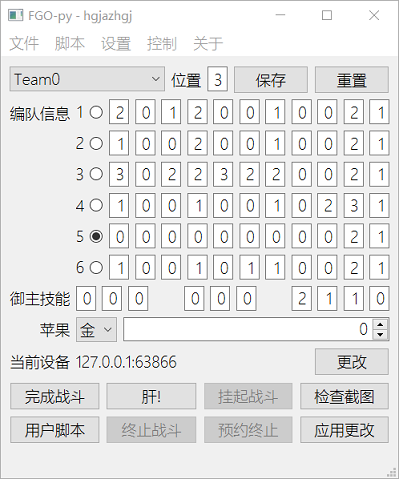
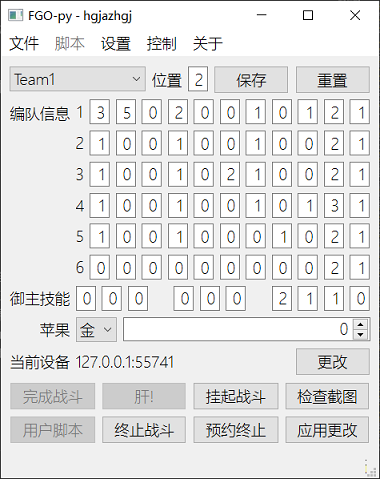
v7.4.1

diff --git a/FGO-py/fgoMainWindow.py b/FGO-py/fgoMainWindow.py
@@ -63,13 +63,6 @@ class Ui_fgoMainWindow(object):
         self.LAYOUT_INFO_TEAM.setWidget(0, QtWidgets.QFormLayout.ItemRole.LabelRole, self.LBL_TEAM_0)
         self.LAYOUT_INFO_TEAM_0 = QtWidgets.QHBoxLayout()
         self.LAYOUT_INFO_TEAM_0.setObjectName("LAYOUT_INFO_TEAM_0")
-        self.RBT_FRIEND_0 = QtWidgets.QRadioButton(self.widget)
-        self.RBT_FRIEND_0.setText("")
-        self.RBT_FRIEND_0.setObjectName("RBT_FRIEND_0")
-        self.BTG_FRIEND = QtWidgets.QButtonGroup(fgoMainWindow)
-        self.BTG_FRIEND.setObjectName("BTG_FRIEND")
-        self.BTG_FRIEND.addButton(self.RBT_FRIEND_0)
-        self.LAYOUT_INFO_TEAM_0.addWidget(self.RBT_FRIEND_0)
         self.TXT_SKILL_0_0_0 = QtWidgets.QLineEdit(self.widget)
         self.TXT_SKILL_0_0_0.setMinimumSize(QtCore.QSize(20, 25))
         self.TXT_SKILL_0_0_0.setMaximumSize(QtCore.QSize(20, 25))
@@ -162,11 +155,6 @@ class Ui_fgoMainWindow(object):
         self.LAYOUT_INFO_TEAM.setWidget(1, QtWidgets.QFormLayout.ItemRole.LabelRole, self.LBL_TEAM_1)
         self.LAYOUT_INFO_TEAM_1 = QtWidgets.QHBoxLayout()
         self.LAYOUT_INFO_TEAM_1.setObjectName("LAYOUT_INFO_TEAM_1")
-        self.RBT_FRIEND_1 = QtWidgets.QRadioButton(self.widget)
-        self.RBT_FRIEND_1.setText("")
-        self.RBT_FRIEND_1.setObjectName("RBT_FRIEND_1")
-        self.BTG_FRIEND.addButton(self.RBT_FRIEND_1)
-        self.LAYOUT_INFO_TEAM_1.addWidget(self.RBT_FRIEND_1)
         self.TXT_SKILL_1_0_0 = QtWidgets.QLineEdit(self.widget)
         self.TXT_SKILL_1_0_0.setMinimumSize(QtCore.QSize(20, 25))
         self.TXT_SKILL_1_0_0.setMaximumSize(QtCore.QSize(20, 25))
@@ -259,11 +247,6 @@ class Ui_fgoMainWindow(object):
         self.LAYOUT_INFO_TEAM.setWidget(2, QtWidgets.QFormLayout.ItemRole.LabelRole, self.LBL_TEAM_2)
         self.LAYOUT_INFO_TEAM_2 = QtWidgets.QHBoxLayout()
         self.LAYOUT_INFO_TEAM_2.setObjectName("LAYOUT_INFO_TEAM_2")
-        self.RBT_FRIEND_2 = QtWidgets.QRadioButton(self.widget)
-        self.RBT_FRIEND_2.setText("")
-        self.RBT_FRIEND_2.setObjectName("RBT_FRIEND_2")
-        self.BTG_FRIEND.addButton(self.RBT_FRIEND_2)
-        self.LAYOUT_INFO_TEAM_2.addWidget(self.RBT_FRIEND_2)
         self.TXT_SKILL_2_0_0 = QtWidgets.QLineEdit(self.widget)
         self.TXT_SKILL_2_0_0.setMinimumSize(QtCore.QSize(20, 25))
         self.TXT_SKILL_2_0_0.setMaximumSize(QtCore.QSize(20, 25))
@@ -356,11 +339,6 @@ class Ui_fgoMainWindow(object):
         self.LAYOUT_INFO_TEAM.setWidget(3, QtWidgets.QFormLayout.ItemRole.LabelRole, self.LBL_TEAM_3)
         self.LAYOUT_INFO_TEAM_3 = QtWidgets.QHBoxLayout()
         self.LAYOUT_INFO_TEAM_3.setObjectName("LAYOUT_INFO_TEAM_3")
-        self.RBT_FRIEND_3 = QtWidgets.QRadioButton(self.widget)
-        self.RBT_FRIEND_3.setText("")
-        self.RBT_FRIEND_3.setObjectName("RBT_FRIEND_3")
-        self.BTG_FRIEND.addButton(self.RBT_FRIEND_3)
-        self.LAYOUT_INFO_TEAM_3.addWidget(self.RBT_FRIEND_3)
         self.TXT_SKILL_3_0_0 = QtWidgets.QLineEdit(self.widget)
         self.TXT_SKILL_3_0_0.setMinimumSize(QtCore.QSize(20, 25))
         self.TXT_SKILL_3_0_0.setMaximumSize(QtCore.QSize(20, 25))
@@ -453,13 +431,6 @@ class Ui_fgoMainWindow(object):
         self.LAYOUT_INFO_TEAM.setWidget(4, QtWidgets.QFormLayout.ItemRole.LabelRole, self.LBL_TEAM_4)
         self.LAYOUT_INFO_TEAM_4 = QtWidgets.QHBoxLayout()
         self.LAYOUT_INFO_TEAM_4.setObjectName("LAYOUT_INFO_TEAM_4")
-        self.RBT_FRIEND_4 = QtWidgets.QRadioButton(self.widget)
-        self.RBT_FRIEND_4.setCursor(QtGui.QCursor(QtCore.Qt.CursorShape.PointingHandCursor))
-        self.RBT_FRIEND_4.setText("")
-        self.RBT_FRIEND_4.setChecked(True)
-        self.RBT_FRIEND_4.setObjectName("RBT_FRIEND_4")
-        self.BTG_FRIEND.addButton(self.RBT_FRIEND_4)
-        self.LAYOUT_INFO_TEAM_4.addWidget(self.RBT_FRIEND_4)
         self.TXT_SKILL_4_0_0 = QtWidgets.QLineEdit(self.widget)
         self.TXT_SKILL_4_0_0.setMinimumSize(QtCore.QSize(20, 25))
         self.TXT_SKILL_4_0_0.setMaximumSize(QtCore.QSize(20, 25))
@@ -552,11 +523,6 @@ class Ui_fgoMainWindow(object):
         self.LAYOUT_INFO_TEAM.setWidget(5, QtWidgets.QFormLayout.ItemRole.LabelRole, self.LBL_TEAM_5)
         self.LAYOUT_INFO_TEAM_5 = QtWidgets.QHBoxLayout()
         self.LAYOUT_INFO_TEAM_5.setObjectName("LAYOUT_INFO_TEAM_5")
-        self.RBT_FRIEND_5 = QtWidgets.QRadioButton(self.widget)
-        self.RBT_FRIEND_5.setText("")
-        self.RBT_FRIEND_5.setObjectName("RBT_FRIEND_5")
-        self.BTG_FRIEND.addButton(self.RBT_FRIEND_5)
-        self.LAYOUT_INFO_TEAM_5.addWidget(self.RBT_FRIEND_5)
         self.TXT_SKILL_5_0_0 = QtWidgets.QLineEdit(self.widget)
         self.TXT_SKILL_5_0_0.setMinimumSize(QtCore.QSize(20, 25))
         self.TXT_SKILL_5_0_0.setMaximumSize(QtCore.QSize(20, 25))
@@ -932,13 +898,7 @@ class Ui_fgoMainWindow(object):
         fgoMainWindow.setTabOrder(self.CBX_TEAM, self.TXT_TEAM)
         fgoMainWindow.setTabOrder(self.TXT_TEAM, self.BTN_TEAMSAVE)
         fgoMainWindow.setTabOrder(self.BTN_TEAMSAVE, self.BTN_TEAMRESET)
-        fgoMainWindow.setTabOrder(self.BTN_TEAMRESET, self.RBT_FRIEND_0)
-        fgoMainWindow.setTabOrder(self.RBT_FRIEND_0, self.RBT_FRIEND_1)
-        fgoMainWindow.setTabOrder(self.RBT_FRIEND_1, self.RBT_FRIEND_2)
-        fgoMainWindow.setTabOrder(self.RBT_FRIEND_2, self.RBT_FRIEND_3)
-        fgoMainWindow.setTabOrder(self.RBT_FRIEND_3, self.RBT_FRIEND_4)
-        fgoMainWindow.setTabOrder(self.RBT_FRIEND_4, self.RBT_FRIEND_5)
-        fgoMainWindow.setTabOrder(self.RBT_FRIEND_5, self.TXT_SKILL_0_0_0)
+        fgoMainWindow.setTabOrder(self.BTN_TEAMRESET, self.TXT_SKILL_0_0_0)
         fgoMainWindow.setTabOrder(self.TXT_SKILL_0_0_0, self.TXT_SKILL_0_0_1)
         fgoMainWindow.setTabOrder(self.TXT_SKILL_0_0_1, self.TXT_SKILL_0_0_2)
         fgoMainWindow.setTabOrder(self.TXT_SKILL_0_0_2, self.TXT_SKILL_0_1_0)
@@ -1016,10 +976,10 @@ class Ui_fgoMainWindow(object):
         fgoMainWindow.setTabOrder(self.TXT_MASTER_2_2, self.TXT_MASTER_2_3)
         fgoMainWindow.setTabOrder(self.TXT_MASTER_2_3, self.CBX_APPLE)
         fgoMainWindow.setTabOrder(self.CBX_APPLE, self.TXT_APPLE)
-        fgoMainWindow.setTabOrder(self.TXT_APPLE, self.BTN_ONEBATTLE)
+        fgoMainWindow.setTabOrder(self.TXT_APPLE, self.BTN_GETDEVICE)
+        fgoMainWindow.setTabOrder(self.BTN_GETDEVICE, self.BTN_ONEBATTLE)
         fgoMainWindow.setTabOrder(self.BTN_ONEBATTLE, self.BTN_USER)
-        fgoMainWindow.setTabOrder(self.BTN_USER, self.BTN_GETDEVICE)
-        fgoMainWindow.setTabOrder(self.BTN_GETDEVICE, self.BTN_MAIN)
+        fgoMainWindow.setTabOrder(self.BTN_USER, self.BTN_MAIN)
         fgoMainWindow.setTabOrder(self.BTN_MAIN, self.BTN_STOP)
         fgoMainWindow.setTabOrder(self.BTN_STOP, self.BTN_PAUSE)
         fgoMainWindow.setTabOrder(self.BTN_PAUSE, self.BTN_STOPLATER)
@@ -1038,7 +998,6 @@ class Ui_fgoMainWindow(object):
         self.BTN_TEAMRESET.setText(_translate("fgoMainWindow", "重置"))
         self.LBL_SKILLINFO.setText(_translate("fgoMainWindow", "编队信息"))
         self.LBL_TEAM_0.setText(_translate("fgoMainWindow", "1"))
-        self.RBT_FRIEND_0.setStatusTip(_translate("fgoMainWindow", "助战的位置,助战的技能设置或被覆盖"))
         self.TXT_SKILL_0_0_0.setStatusTip(_translate("fgoMainWindow", "技能的最小使用面数,0为不使用技能"))
         self.TXT_SKILL_0_0_0.setInputMask(_translate("fgoMainWindow", "9"))
         self.TXT_SKILL_0_0_1.setStatusTip(_translate("fgoMainWindow", "技能在最小使用面数的最小使用回合"))
@@ -1062,7 +1021,6 @@ class Ui_fgoMainWindow(object):
         self.TXT_HOUGU_0_1.setStatusTip(_translate("fgoMainWindow", "宝具使用的优先级,越大越优先"))
         self.TXT_HOUGU_0_1.setInputMask(_translate("fgoMainWindow", "9"))
         self.LBL_TEAM_1.setText(_translate("fgoMainWindow", "2"))
-        self.RBT_FRIEND_1.setStatusTip(_translate("fgoMainWindow", "助战的位置,助战的技能设置或被覆盖"))
         self.TXT_SKILL_1_0_0.setStatusTip(_translate("fgoMainWindow", "技能的最小使用面数,0为不使用技能"))
         self.TXT_SKILL_1_0_0.setInputMask(_translate("fgoMainWindow", "9"))
         self.TXT_SKILL_1_0_1.setStatusTip(_translate("fgoMainWindow", "技能在最小使用面数的最小使用回合"))
@@ -1086,7 +1044,6 @@ class Ui_fgoMainWindow(object):
         self.TXT_HOUGU_1_1.setStatusTip(_translate("fgoMainWindow", "宝具使用的优先级,越大越优先"))
         self.TXT_HOUGU_1_1.setInputMask(_translate("fgoMainWindow", "9"))
         self.LBL_TEAM_2.setText(_translate("fgoMainWindow", "3"))
-        self.RBT_FRIEND_2.setStatusTip(_translate("fgoMainWindow", "助战的位置,助战的技能设置或被覆盖"))
         self.TXT_SKILL_2_0_0.setStatusTip(_translate("fgoMainWindow", "技能的最小使用面数,0为不使用技能"))
         self.TXT_SKILL_2_0_0.setInputMask(_translate("fgoMainWindow", "9"))
         self.TXT_SKILL_2_0_1.setStatusTip(_translate("fgoMainWindow", "技能在最小使用面数的最小使用回合"))
@@ -1110,7 +1067,6 @@ class Ui_fgoMainWindow(object):
         self.TXT_HOUGU_2_1.setStatusTip(_translate("fgoMainWindow", "宝具使用的优先级,越大越优先"))
         self.TXT_HOUGU_2_1.setInputMask(_translate("fgoMainWindow", "9"))
         self.LBL_TEAM_3.setText(_translate("fgoMainWindow", "4"))
-        self.RBT_FRIEND_3.setStatusTip(_translate("fgoMainWindow", "助战的位置,助战的技能设置或被覆盖"))
         self.TXT_SKILL_3_0_0.setStatusTip(_translate("fgoMainWindow", "技能的最小使用面数,0为不使用技能"))
         self.TXT_SKILL_3_0_0.setInputMask(_translate("fgoMainWindow", "9"))
         self.TXT_SKILL_3_0_1.setStatusTip(_translate("fgoMainWindow", "技能在最小使用面数的最小使用回合"))
@@ -1134,7 +1090,6 @@ class Ui_fgoMainWindow(object):
         self.TXT_HOUGU_3_1.setStatusTip(_translate("fgoMainWindow", "宝具使用的优先级,越大越优先"))
         self.TXT_HOUGU_3_1.setInputMask(_translate("fgoMainWindow", "9"))
         self.LBL_TEAM_4.setText(_translate("fgoMainWindow", "5"))
-        self.RBT_FRIEND_4.setStatusTip(_translate("fgoMainWindow", "助战的位置,助战的技能设置或被覆盖"))
         self.TXT_SKILL_4_0_0.setStatusTip(_translate("fgoMainWindow", "技能的最小使用面数,0为不使用技能"))
         self.TXT_SKILL_4_0_0.setInputMask(_translate("fgoMainWindow", "9"))
         self.TXT_SKILL_4_0_1.setStatusTip(_translate("fgoMainWindow", "技能在最小使用面数的最小使用回合"))
@@ -1158,7 +1113,6 @@ class Ui_fgoMainWindow(object):
         self.TXT_HOUGU_4_1.setStatusTip(_translate("fgoMainWindow", "宝具使用的优先级,越大越优先"))
         self.TXT_HOUGU_4_1.setInputMask(_translate("fgoMainWindow", "9"))
         self.LBL_TEAM_5.setText(_translate("fgoMainWindow", "6"))
-        self.RBT_FRIEND_5.setStatusTip(_translate("fgoMainWindow", "助战的位置,助战的技能设置或被覆盖"))
         self.TXT_SKILL_5_0_0.setStatusTip(_translate("fgoMainWindow", "技能的最小使用面数,0为不使用技能"))
         self.TXT_SKILL_5_0_0.setInputMask(_translate("fgoMainWindow", "9"))
         self.TXT_SKILL_5_0_1.setStatusTip(_translate("fgoMainWindow", "技能在最小使用面数的最小使用回合"))

diff --git a/FGO-py/fgoCheck.py b/FGO-py/fgoCheck.py
@@ -1,5 +1,4 @@
 import os,time,cv2,numpy
-from types import new_class
 from functools import reduce,wraps
 from fgoControl import control
 from fgoFuse import fuse
@@ -33,26 +32,38 @@ class Check(metaclass=logMeta(logger)):
         Check.cache=self
         fuse.increase()
         control.sleep(backwardLagency)
-    def _compare(self,img,rect=(0,0,1920,1080),threshold=.05):return threshold>cv2.minMaxLoc(cv2.matchTemplate(self.im[rect[1]:rect[3],rect[0]:rect[2]],img,cv2.TM_SQDIFF_NORMED))[0]and fuse.reset(self)
-    def _select(self,img,rect=(0,0,1920,1080),threshold=.2):return(lambda x:numpy.argmin(x)if threshold>min(x)else None)([cv2.minMaxLoc(cv2.matchTemplate(self.im[rect[1]:rect[3],rect[0]:rect[2]],i,cv2.TM_SQDIFF_NORMED))[0]for i in img])
+    def _clip(self,rect):return self.im[rect[1]:rect[3],rect[0]:rect[2]]
+    def _loc(self,img,rect=(0,0,1920,1080)):return cv2.minMaxLoc(cv2.matchTemplate(self._clip(rect),img,cv2.TM_SQDIFF_NORMED))
+    def _compare(self,img,rect=(0,0,1920,1080),threshold=.05):return threshold>self._loc(img,rect)[0]and fuse.reset(self)
+    def _select(self,img,rect=(0,0,1920,1080),threshold=.2):return(lambda x:numpy.argmin(x)if threshold>min(x)else None)([self._loc(i,rect)[0]for i in img])
     def _ocr(self,rect):return reduce(lambda x,y:x*10+y[1],(lambda contours,hierarchy:sorted(((pos,loc[2][0]//20)for pos,loc in((clip[0],cv2.minMaxLoc(cv2.matchTemplate(IMG.OCR,numpy.array([[[255*(cv2.pointPolygonTest(contours[i],(clip[0]+x,clip[1]+y),False)>=0and(hierarchy[0][i][2]==-1or cv2.pointPolygonTest(contours[hierarchy[0][i][2]],(clip[0]+x,clip[1]+y),False)<0))]*3for x in range(clip[2])]for y in range(clip[3])],dtype=numpy.uint8),cv2.TM_SQDIFF_NORMED)))for i,clip in((i,cv2.boundingRect(contours[i]))for i in range(len(contours))if hierarchy[0][i][3]==-1)if 8<clip[2]<20<clip[3]<27)if loc[0]<.3),key=lambda x:x[0]))(*cv2.findContours(cv2.threshold(cv2.cvtColor(self.im[rect[1]:rect[3],rect[0]:rect[2]],cv2.COLOR_BGR2GRAY),150,255,cv2.THRESH_BINARY)[1],cv2.RETR_CCOMP,cv2.CHAIN_APPROX_SIMPLE)),0)
     @startIter
-    def _iter(self,rect,threshold=.05):
-        img=self.im[rect[1]:rect[3],rect[0]:rect[2]]
+    def _iterChange(self,rect,threshold=.05):
+        img=self._clip(rect)
         check=yield None
         while True:
-            tmp=check.im[rect[1]:rect[3],rect[0]:rect[2]]
+            tmp=check._clip(rect)
             check=yield threshold<cv2.matchTemplate(img,tmp,cv2.TM_SQDIFF_NORMED)[0][0]and fuse.reset(check)
             img=tmp
+    @startIter
+    def _iterCompare(self,img,rect,threshold=.05):
+        result=self._compare(img,rect,threshold)
+        check=yield None
+        while True:
+            tmp=check._compare(img,rect,threshold)
+            check=yield result^tmp
+            result=tmp
     def _isListEnd(self,pos):return not self._compare(IMG.LISTBAR,(pos[0]-20,pos[1]-17,pos[0]+20,pos[1]+4),.25)
     def save(self,name='Capture'):cv2.imwrite(time.strftime(f'{name}_%Y-%m-%d_%H.%M.%S.png'),self.im)
     def show(self):
         cv2.imshow('Check Screenshot - Press S to save',cv2.resize(self.im,(0,0),fx=.4,fy=.4))
         if cv2.waitKey()==ord('s'):self.save()
         cv2.destroyAllWindows()
-    def find(self,img,rect=(0,0,1920,1080),threshold=.05):return(lambda loc:((rect[0]+loc[2][0]+(img.shape[1]>>1),rect[1]+loc[2][1]+(img.shape[0]>>1)),fuse.reset(self))[0]if loc[0]<threshold else None)(cv2.minMaxLoc(cv2.matchTemplate(self.im[rect[1]:rect[3],rect[0]:rect[2]],img,cv2.TM_SQDIFF_NORMED)))
-    def setupMailDone(self):Check._iterMailDone=self._iter((303,156,378,186))
-    def setupServantDead(self):Check._iterServantDead=[self._iter((195+480*i,640,296+480*i,740))for i in range(3)]
+    def find(self,img,rect=(0,0,1920,1080),threshold=.05):return(lambda loc:((rect[0]+loc[2][0]+(img.shape[1]>>1),rect[1]+loc[2][1]+(img.shape[0]>>1)),fuse.reset(self))[0]if loc[0]<threshold else None)(self._loc(img,rect))
+    def setupMailDone(self):Check._iterMailDone=self._iterChange((303,156,378,186))
+    def setupServantDead(self):
+        Check._iterServantFace=[self._iterChange((195+480*i,640,296+480*i,740))for i in range(3)]
+        Check._iterServantFriend=[self._iterCompare(IMG.SUPPORT,(292+480*i,582,425+480*i,626))for i in range(3)]
     def isAddFriend(self):return self._compare(IMG.END,(243,863,745,982))
     def isApEmpty(self):return self._compare(IMG.APEMPTY,(906,897,1017,967))
     def isBattleBegin(self):return self._compare(IMG.BATTLEBEGIN,(1639,951,1865,1061))
@@ -69,7 +80,7 @@ class Check(metaclass=logMeta(logger)):
     def isMailListEnd(self):return self._isListEnd((1406,1018))
     def isNextJackpot(self):return self._compare(IMG.JACKPOT,(1220,347,1318,389))
     def isNoFriend(self):return self._compare(IMG.NOFRIEND,(369,545,411,587),.1)
-    def isServantDead(self):return[self._iterServantDead[i].send(self)for i in range(3)]
+    def isServantDead(self):return[self._iterServantFace[i].send(self)or self._iterServantFriend[i].send(self)for i in range(3)]
     def isSkillReady(self):return[[not self._compare(IMG.STILL,(54+476*i+132*j,897,83+480*i+141*j,927),.1)for j in range(3)]for i in range(3)]
     def isSpecialDrop(self):return self._compare(IMG.CLOSE,(8,18,102,102))
     def isTurnBegin(self):return self._compare(IMG.ATTACK,(1567,932,1835,1064))
@@ -79,7 +90,7 @@ class Check(metaclass=logMeta(logger)):
         result=[-1]*5
         index=0
         while universe:
-            group=(lambda item:{item}|{i for i in universe if cv2.minMaxLoc(cv2.matchTemplate(self.im[660:737,160+386*item:225+386*item],self.im[690:707,170+386*i:215+386*i],cv2.TM_SQDIFF_NORMED))[0]<.01})(universe.pop())
+            group=(lambda item:{item}|{i for i in universe if self._loc(self._clip((170+386*i,690,215+386*i,707)),(160+386*item,660,225+386*item,737))[0]<.01})(universe.pop())
             for i in group:result[i]=index
             index+=1
             universe-=group
@@ -88,12 +99,12 @@ class Check(metaclass=logMeta(logger)):
     def getEnemyHP(self):return[self._ocr((150+375*i,61,332+375*i,97))for i in range(3)]
     def getHP(self):return[self._ocr((300+476*i,930,439+476*i,965))for i in range(3)]
     def getNP(self):return[self._ocr((330+476*i,983,411+476*i,1020))for i in range(3)]
-    def getPortrait(self):return[self.im[640:740,195+480*i:296+480*i]for i in range(3)]
     @retryOnError()
     def getStage(self):return self._select((IMG.STAGE1,IMG.STAGE2,IMG.STAGE3),(1326,20,1372,56),.5)+1
     @retryOnError()
     def getStageTotal(self):return self._select((IMG.STAGETOTAL1,IMG.STAGETOTAL2,IMG.STAGETOTAL3),(1350,20,1397,56),.5)+1
-    def getTeamIndex(self):return cv2.minMaxLoc(cv2.matchTemplate(self.im[58:92,768:1152],IMG.TEAMINDEX,cv2.TM_SQDIFF_NORMED))[2][0]//37+1
+    def getTeamIndex(self):return self._loc(IMG.TEAMINDEX,(768,52,1152,92))[2][0]//37
+    def getFriendPos(self):return self._loc(IMG.SUPPORT,(162,270,1855,314))[2][0]//304
     def getEnemyHPGauge(self):raise NotImplementedError
     def getEnemyNP(self):raise NotImplementedError
     def getCriticalRate(self):raise NotImplementedError

diff --git a/FGO-py/fgoFunc.py b/FGO-py/fgoFunc.py
@@ -128,9 +128,11 @@ class Main:
                     control.checkTerminateLater()
                     device.press('8')
                     if Check(.7,.3).isApEmpty()and not self.eatApple():return
-                    self.chooseFriend()
+                    friend=self.chooseFriend()
                     while not Check().isBattleBegin():pass
-                    if self.teamIndex and Check.cache.getTeamIndex()!=self.teamIndex:device.perform('\x70\x71\x72\x73\x74\x75\x76\x77\x78\x79'[self.teamIndex-1]+' ',(1000,400))
+                    Main.friendPos=Check.cache.getFriendPos()
+                    self.applyFriend(friend)
+                    if self.teamIndex and Check.cache.getTeamIndex()+1!=self.teamIndex:device.perform('\x70\x71\x72\x73\x74\x75\x76\x77\x78\x79'[self.teamIndex-1]+' ',(1000,400))
                     device.perform(' 8M',(800,800,10000))
                     break
                 elif Check.cache.isBattleContinue():
@@ -140,7 +142,7 @@ class Main:
                         raise
                     device.press('K')
                     if Check(.7,.3).isApEmpty()and not self.eatApple():return
-                    self.chooseFriend()
+                    self.applyFriend(self.chooseFriend())
                     control.sleep(6)
                     break
                 elif Check.cache.isAddFriend():device.press('X')
@@ -180,7 +182,6 @@ class Main:
             timer=time.time()
             while True:
                 for i in(i for i,j in friendImg.items()if(lambda pos:pos and(device.touch(pos),True)[-1])(Check.cache.find(j))):
-                    Battle.skillInfo[self.friendPos],Battle.houguInfo[self.friendPos]=(lambda r:(lambda p:([[Battle.skillInfo[self.friendPos][i][j]if p[i*3+j]=='x'else int(p[i*3+j])for j in range(3)]for i in range(3)],[Battle.houguInfo[self.friendPos][i]if p[i+9]=='x'else int(p[i+9])for i in range(2)]))(r.group())if r else(Battle.skillInfo[self.friendPos],Battle.houguInfo[self.friendPos]))(re.search('[0-9x]{11}$',i))
                     return i
                 if Check.cache.isFriendListEnd():break
                 device.swipe((800,900,800,300))
@@ -192,6 +193,7 @@ class Main:
                 if Check.cache.isNoFriend():
                     control.sleep(10)
                     device.perform('\xBAK',(500,1000))
+    def applyFriend(self,friend):Battle.skillInfo[self.friendPos],Battle.houguInfo[self.friendPos]=(lambda r:(lambda p:([[Battle.skillInfo[self.friendPos][i][j]if p[i*3+j]=='x'else int(p[i*3+j])for j in range(3)]for i in range(3)],[Battle.houguInfo[self.friendPos][i]if p[i+9]=='x'else int(p[i+9])for i in range(2)]))(r.group())if r else(Battle.skillInfo[self.friendPos],Battle.houguInfo[self.friendPos]))(re.search('[0-9x]{11}$',friend)if friend else None)
 def userScript():
     # BX WCBA 极地用迦勒底制服
     while not Check(0,.2).isTurnBegin():pass

diff --git a/FGO-py/fgoGui.py b/FGO-py/fgoGui.py
@@ -122,7 +122,6 @@ class MyMainWindow(QMainWindow,Ui_fgoMainWindow):
         self.TRAY.showMessage('FGO-py',*msg)
     def loadTeam(self,teamName):
         self.TXT_TEAM.setText(self.teamup[teamName]['teamIndex'])
-        getattr(self,f'RBT_FRIEND_{self.teamup[teamName]["friendPos"]}').setChecked(True)
         (lambda skillInfo:[getattr(self,f'TXT_SKILL_{i}_{j}_{k}').setText(str(skillInfo[i][j][k]))for i in range(6)for j in range(3)for k in range(3)])(eval(self.teamup[teamName]['skillInfo']))
         (lambda houguInfo:[getattr(self,f'TXT_HOUGU_{i}_{j}').setText(str(houguInfo[i][j]))for i in range(6)for j in range(2)])(eval(self.teamup[teamName]['houguInfo']))
         (lambda masterSkill:[getattr(self,f'TXT_MASTER_{i}_{j}').setText(str(masterSkill[i][j]))for i in range(3)for j in range(3+(i==2))])(eval(self.teamup[teamName]['masterSkill']))
@@ -130,7 +129,6 @@ class MyMainWindow(QMainWindow,Ui_fgoMainWindow):
         if not self.CBX_TEAM.currentText():return
         self.teamup[self.CBX_TEAM.currentText()]={
             'teamIndex':self.TXT_TEAM.text(),
-            'friendPos':self.BTG_FRIEND.checkedButton().objectName()[-1],
             'skillInfo':str([[[int(getattr(self,f'TXT_SKILL_{i}_{j}_{k}').text())for k in range(3)]for j in range(3)]for i in range(6)]).replace(' ',''),
             'houguInfo':str([[int(getattr(self,f'TXT_HOUGU_{i}_{j}').text())for j in range(2)]for i in range(6)]).replace(' ',''),
             'masterSkill':str([[int(getattr(self,f'TXT_MASTER_{i}_{j}').text())for j in range(3+(i==2))]for i in range(3)]).replace(' ','')}
@@ -172,7 +170,6 @@ class MyMainWindow(QMainWindow,Ui_fgoMainWindow):
         except Exception as e:logger.exception(e)
     def applyAll(self):
         fgoFunc.Main.teamIndex=int(self.TXT_TEAM.text())
-        fgoFunc.Main.friendPos=int(self.BTG_FRIEND.checkedButton().objectName()[-1])
         fgoFunc.Battle.skillInfo=[[[int(getattr(self,f'TXT_SKILL_{i}_{j}_{k}').text())for k in range(3)]for j in range(3)]for i in range(6)]
         fgoFunc.Battle.houguInfo=[[int(getattr(self,f'TXT_HOUGU_{i}_{j}').text())for j in range(2)]for i in range(6)]
         fgoFunc.Battle.masterSkill=[[int(getattr(self,f'TXT_MASTER_{i}_{j}').text())for j in range(3+(i==2))]for i in range(3)]
